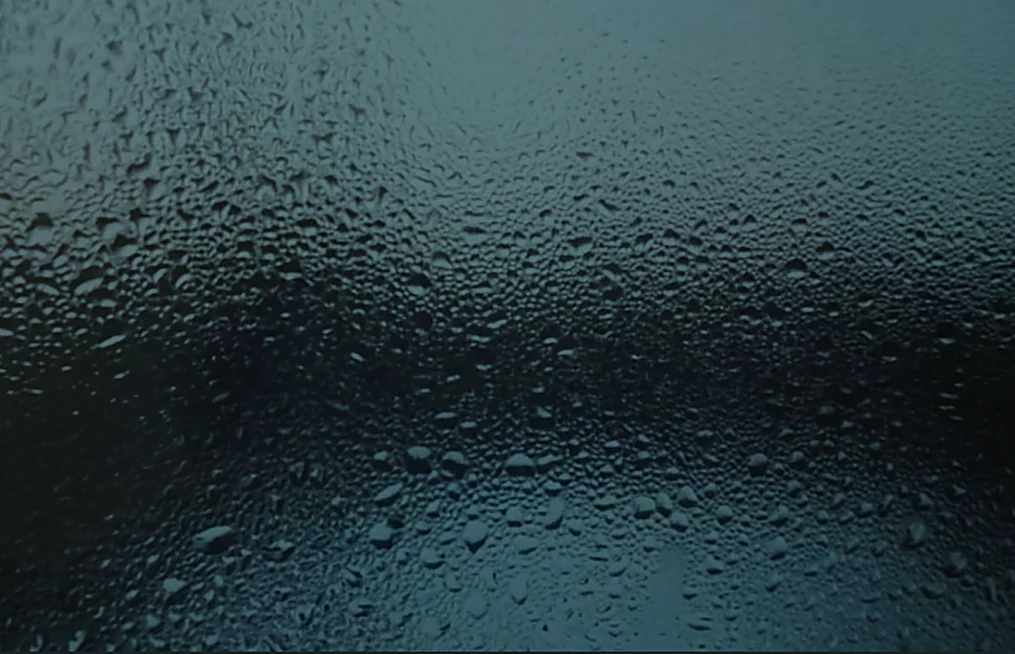
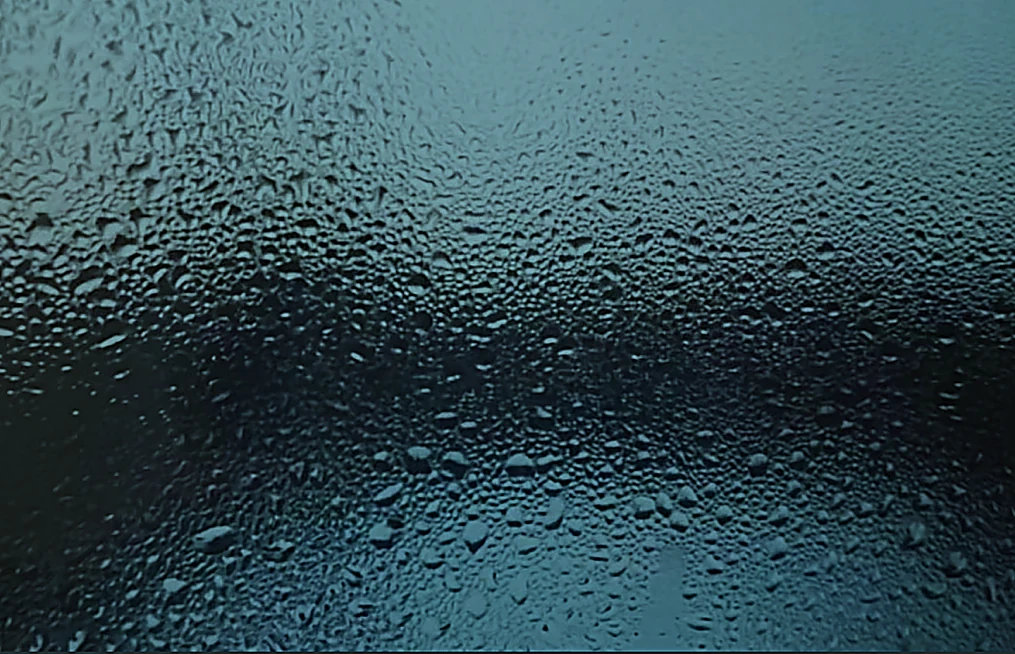
Wipe the clear patch with a hand-painted brush stroke and sharpen the condensation glass

diff --git a/src/pages/HomePage.css b/src/pages/HomePage.css
@@ -224,11 +224,12 @@
 .hp-hero-scrim {
   position: absolute;
   inset: 0;
-  z-index: 1;
+  /* 必须压在水雾玻璃（z-index:1 的 ::after）之上，才能真的压暗首尾 */
+  z-index: 2;
   pointer-events: none;
   background:
-    linear-gradient(180deg, rgba(3, 11, 16, 0.72) 0%, rgba(3, 11, 16, 0.46) 8%, rgba(3, 11, 16, 0.12) 17%, rgba(3, 11, 16, 0) 24%),
-    linear-gradient(0deg, rgba(3, 11, 16, 0.74) 0%, rgba(3, 11, 16, 0.4) 7%, rgba(3, 11, 16, 0) 16%);
+    linear-gradient(180deg, rgba(3, 11, 16, 0.80) 0%, rgba(3, 11, 16, 0.60) 9%, rgba(3, 11, 16, 0.22) 17%, rgba(3, 11, 16, 0) 25%),
+    linear-gradient(0deg, rgba(3, 11, 16, 0.86) 0%, rgba(3, 11, 16, 0.56) 8%, rgba(3, 11, 16, 0.1) 15%, rgba(3, 11, 16, 0) 20%);
 }
 
 /* 水雾玻璃：整块蒙在首屏上，只有中间被“擦干净”的那块透出来
@@ -243,15 +244,15 @@
   background-color: #050f14;
   background-image:
     url('../assets/glass.webp'),
-    linear-gradient(0deg, rgba(206, 232, 240, 0.10), rgba(206, 232, 240, 0.10)),
+    linear-gradient(0deg, rgba(206, 232, 240, 0.035), rgba(206, 232, 240, 0.035)),
     linear-gradient(104deg, transparent 0 18%, rgba(226, 248, 255, 0.07) 35%, rgba(226, 248, 255, 0.02) 46%, transparent 60%),
     radial-gradient(118% 88% at 50% 44%, rgba(4, 16, 22, 0) 0 36%, rgba(3, 11, 16, 0.34) 74%, rgba(2, 8, 12, 0.68) 100%),
     linear-gradient(180deg, rgba(2, 9, 13, 0.86) 0%, rgba(2, 9, 13, 0.62) 12%, rgba(2, 9, 13, 0.22) 27%, rgba(2, 9, 13, 0.26) 56%, rgba(2, 9, 13, 0.70) 84%, rgba(2, 9, 13, 0.90) 100%);
   background-size: cover, 100% 100%, 100% 100%, 100% 100%, 100% 100%;
   background-position: center, 0 0, 0 0, 0 0, 0 0;
   background-repeat: no-repeat, no-repeat, no-repeat, no-repeat, no-repeat;
-  -webkit-mask-image: url('../assets/wipe2.png');
-  mask-image: url('../assets/wipe2.png');
+  -webkit-mask-image: url('../assets/wipe3.png');
+  mask-image: url('../assets/wipe3.png');
   -webkit-mask-size: 100% 100%;
   mask-size: 100% 100%;
   -webkit-mask-repeat: no-repeat;
@@ -266,7 +267,7 @@
   z-index: 1;
   pointer-events: none;
   background-image:
-    url('../assets/wipe2-edge.png'),
+    url('../assets/wipe3-edge.png'),
     radial-gradient(30% 60% at 20% 66%, rgba(255, 206, 170, 0.22), transparent 72%),
     radial-gradient(26% 52% at 79% 36%, rgba(176, 226, 255, 0.20), transparent 74%),
     linear-gradient(100deg, transparent 0 10%, rgba(255, 255, 255, 0.06) 20%, transparent 32%, rgba(255, 255, 255, 0.04) 46%, transparent 60%, rgba(255, 255, 255, 0.05) 74%, transparent 88%),
@@ -274,8 +275,8 @@
   background-size: 100% 100%, 100% 100%, 100% 100%, 100% 100%, cover;
   background-position: 0 0, 0 0, 0 0, 0 0, center;
   background-repeat: no-repeat, no-repeat, no-repeat, no-repeat, no-repeat;
-  -webkit-mask-image: url('../assets/wipe2-inverse.png');
-  mask-image: url('../assets/wipe2-inverse.png');
+  -webkit-mask-image: url('../assets/wipe3-inverse.png');
+  mask-image: url('../assets/wipe3-inverse.png');
   -webkit-mask-size: 100% 100%;
   mask-size: 100% 100%;
   -webkit-mask-repeat: no-repeat;
@@ -1067,8 +1068,8 @@
 
   /* 手机屏又窄又高：同一条抹痕按比例压扁，仍然横着穿过整屏 */
   .hp-hero::after {
-    -webkit-mask-image: url('../assets/wipe2-mobile.png');
-    mask-image: url('../assets/wipe2-mobile.png');
+    -webkit-mask-image: url('../assets/wipe3-mobile.png');
+    mask-image: url('../assets/wipe3-mobile.png');
     background-size: 1300px auto, 100% 100%, 100% 100%, 100% 100%, 100% 100%;
     background-position: center top, 0 0, 0 0, 0 0, 0 0;
   }
@@ -1076,8 +1077,8 @@
   .hp-hero::before {
     background-size: 100% 100%;
     background-position: 0 0;
-    -webkit-mask-image: url('../assets/wipe2-mobile-inverse.png');
-    mask-image: url('../assets/wipe2-mobile-inverse.png');
+    -webkit-mask-image: url('../assets/wipe3-mobile-inverse.png');
+    mask-image: url('../assets/wipe3-mobile-inverse.png');
   }
 
 
